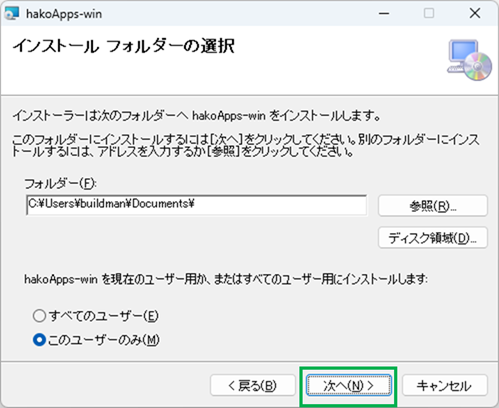
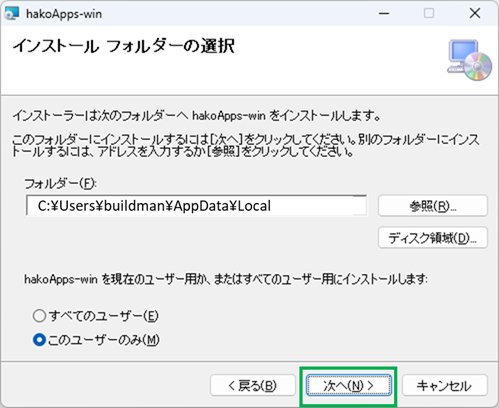
Update coreinstall.md and appsinstall.md

Changed region(s): [[0.0601, 0.4706, 0.5411, 0.5294]]

diff --git a/hakodoc/wininstall-doc/appsinstall.md b/hakodoc/wininstall-doc/appsinstall.md
@@ -1,0 +1,62 @@
+# 前提条件
+
+箱庭アプリをインストールするには、箱庭コア機能、lmdisk、Python 3.12のインストールが終わっていることが条件となります。
+
+以下のドキュメントを参照して、事前にインストールしておいてください。
+
+[箱庭コア機能のインストール手順](https://github.com/buildko89/documents/blob/main/hakodoc/wininstall-doc/coreinstall.md)
+
+lmdisk、Ptython 3.12は箱庭コア機能のインストール時にインストールが済んでいるなら以下の手順は不要になります。
+
+[lmdiskインストール手順](https://github.com/buildko89/documents/blob/main/hakodoc/preinstall-doc/lmdisk_install.md)
+
+[Python3.12インストール手順](https://github.com/buildko89/documents/blob/main/hakodoc/preinstall-doc/python_install.md)
+
+
+# 箱庭アプリインストーラのダウンロード
+
+箱庭ドローンシミュレータに必要な`箱庭アプリ`をインストールするためのインストーラを入手します。以下のリリースページに`hakoApps-win_vx.x.x.zip`で配布されています。
+
+[箱庭アプリインストーラ](https://github.com/buildko89/appsinstaller/releases)
+
+# 箱庭アプリのインストール
+
+`hakoApps-win_vx.x.x.zip`をダウンロードしたら、zipファイルを解凍します。解凍すると、`setup.exe`、`hakowin-msi`が解凍されます。
+
+`setup.exe`を右クリックして、管理者として実行をクリックして実行します。
+
+![アプリインストール1](./apps/apps1.png)
+
+管理者モードで実行するか？と聞かれるのでOKをクリックしてインストールを実行してください。
+
+![アプリインストール2](./apps/apps2.png)
+
+インストール画面が表示されるので、次へ(N)>をクリックして次の画面に進みます。
+
+![アプリインストール3](./apps/apps3.png)
+
+インストール フォルダの選択画面が表示されます。インストール先はデフォルトでは`C:¥User¥<ユーザ名>¥AppData¥Local¥`になります。次へ(N)>をクリックして次の画面に進みます。
+
+インストーラ先のフォルダの変更が必要な場合は変更して、次へ(N)>をクリックして次の画面に進みます。
+
+![アプリインストール4](./apps/apps4.png)
+
+⚠インストール フォルダの選択について
+Windows環境でOneDriveが設定されている場合には注意が必要です。OneDriveのバックアップ対象のフォルダ(例：Desktop,Documentsなど)を選択するとOneDriveにリダイレクトされるので注意してください。
+
+インストールの確認画面がが出ますので、次へ(N)>をクリックして次の画面に進みます。
+
+![アプリインストール5](./apps/apps5.png)
+
+インストールが始まりますので、しばらく待ちます。
+
+![アプリインストール6](./apps/apps6.png)
+
+インストールが完了するとインストール完了の画面が表示されますので、閉じるをクリックしてインストールを完了します。
+
+![アプリインストール7](./apps/apps7.png)
+
+インストールが完了するとデスクトップ上にhakoApps-winのフォルダが作成されますので、フォルダをクリックして内容を確認してください。
+
+![アプリインストール8](./apps/apps8.png)
+

diff --git a/hakodoc/wininstall-doc/coreinstall.md b/hakodoc/wininstall-doc/coreinstall.md
@@ -1,13 +1,13 @@
 # 前提条件
 
-箱庭コア機能をインストールするには、Python 3.12、lmdiskのインストールが終わっていることが条件となります。
+箱庭アプリをインストールするには、箱庭コア機能、lmdisk、Python 3.12のインストールが終わっていることが条件となります。
 以下のドキュメントを参照して、事前にインストールしておいてください。
 
 [lmdiskインストール手順](https://github.com/buildko89/documents/blob/main/hakodoc/preinstall-doc/lmdisk_install.md)
 
 [Python3.12インストール手順](https://github.com/buildko89/documents/blob/main/hakodoc/preinstall-doc/python_install.md)
 
-# 箱庭コア機能のダウンロード
+# 箱庭コア機能インストーラのダウンロード
 
 箱庭ドローンシミュレータに必要な`箱庭コア機能`をインストールするためのインストーラを入手します。以下のリリースページに`hakoCore-win_vx.x.x.zip`で配布されています。
 
